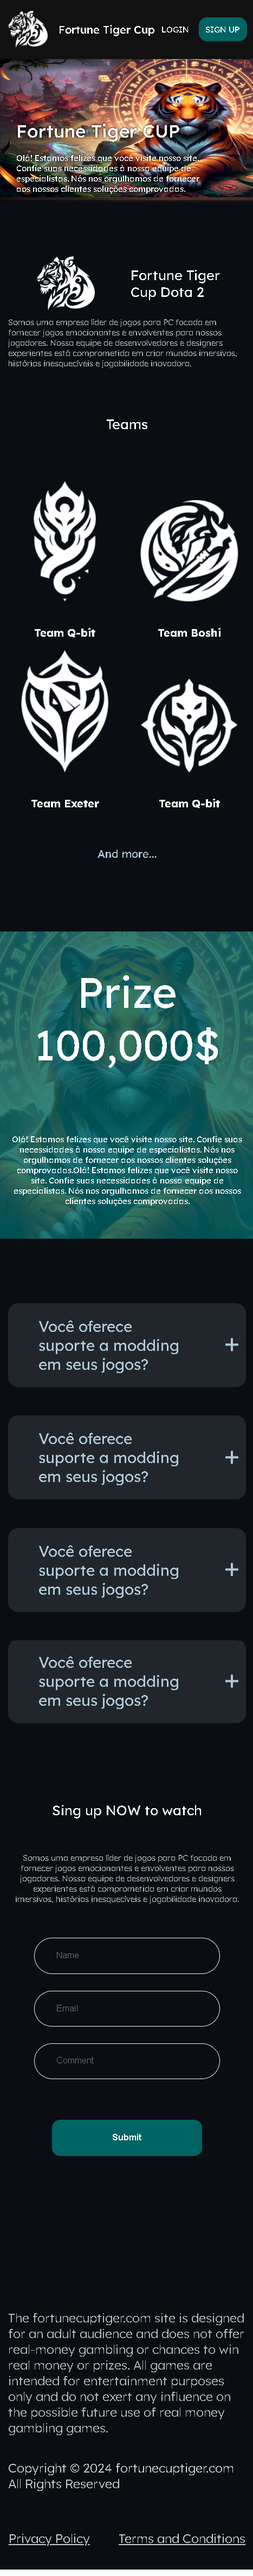
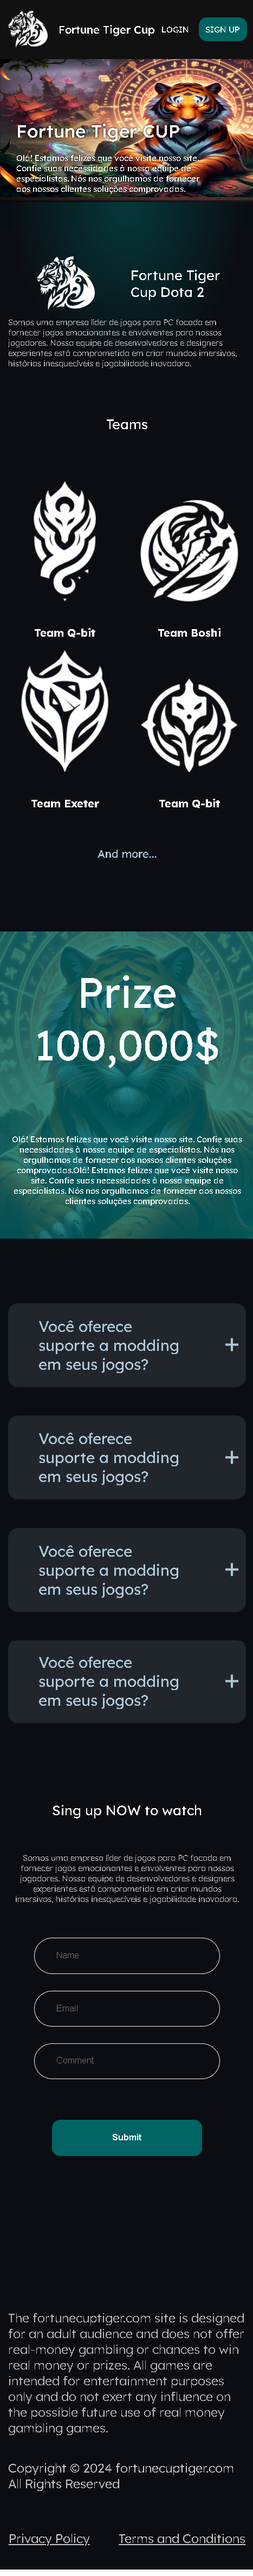
update

Changed region(s): [[0.2998, 0.0623, 0.7195, 0.1245]]

diff --git a/css/style.css b/css/style.css
@@ -220,6 +220,8 @@ header {
   grid-template-columns: 1fr 1fr;
   place-content: center center;
   gap: 10px;
+  position: relative;
+  overflow: hidden;
 }
 .cup_image {
   grid-row: span 2;
@@ -232,6 +234,19 @@ header {
   color: #b9b9b9;
   font-weight: 300;
   text-wrap: wrap;
+}
+.cup::before {
+  position: absolute;
+  content: "";
+  bottom: 0%;
+  left: 50%;
+  transform: translateX(-50%);
+  width: 100%;
+  height: 200%;
+  background: radial-gradient(ellipse, rgba(0, 100, 100, 0.5) 0%, rgba(0, 0, 0, 0) 70%);
+}
+.cup > * {
+  position: relative;
 }
 @media (max-width: 770px) {
   .cup {
@@ -355,6 +370,8 @@ header {
   grid-template-columns: 1fr 1fr;
   place-content: center center;
   gap: 10px;
+  position: relative;
+  overflow: hidden;
 }
 .cup_image {
   grid-row: span 2;
@@ -367,6 +384,19 @@ header {
   color: #b9b9b9;
   font-weight: 300;
   text-wrap: wrap;
+}
+.cup::before {
+  position: absolute;
+  content: "";
+  bottom: 0%;
+  left: 50%;
+  transform: translateX(-50%);
+  width: 100%;
+  height: 200%;
+  background: radial-gradient(ellipse, rgba(0, 100, 100, 0.5) 0%, rgba(0, 0, 0, 0) 70%);
+}
+.cup > * {
+  position: relative;
 }
 @media (max-width: 770px) {
   .cup {

diff --git a/css/Cup.scss b/css/Cup.scss
@@ -6,6 +6,9 @@
   grid-template-columns: 1fr 1fr;
   place-content: center center;
   gap: 10px;
+  position: relative;
+  overflow: hidden;
+
   &_image {
     grid-row: span 2;
     img {
@@ -17,6 +20,23 @@
     color: #b9b9b9;
     font-weight: 300;
     text-wrap: wrap;
+  }
+  &::before {
+    position: absolute;
+    content: "";
+    bottom: calc(100% - 200% / 2);
+    left: 50%;
+    transform: translateX(-50%);
+    width: 100%;
+    height: 200%;
+    background: radial-gradient(
+      ellipse,
+      rgba($activeColor, 0.5) 0%,
+      rgba(0, 0, 0, 0) 70%
+    );
+  }
+  & > * {
+    position: relative;
   }
   @media (max-width: 770px) {
     padding-top: 80px;
